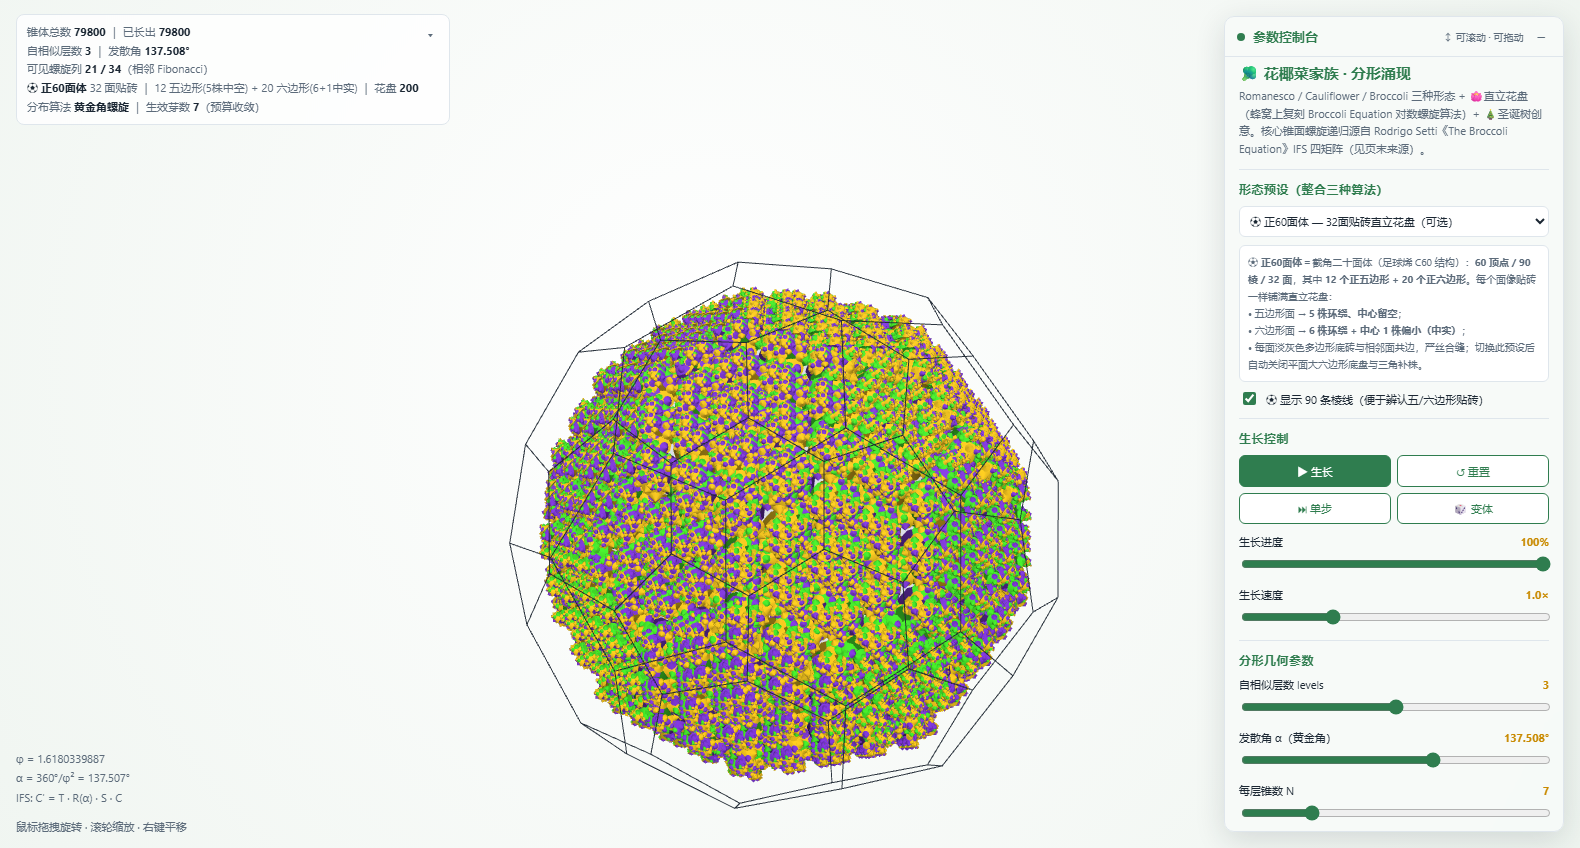
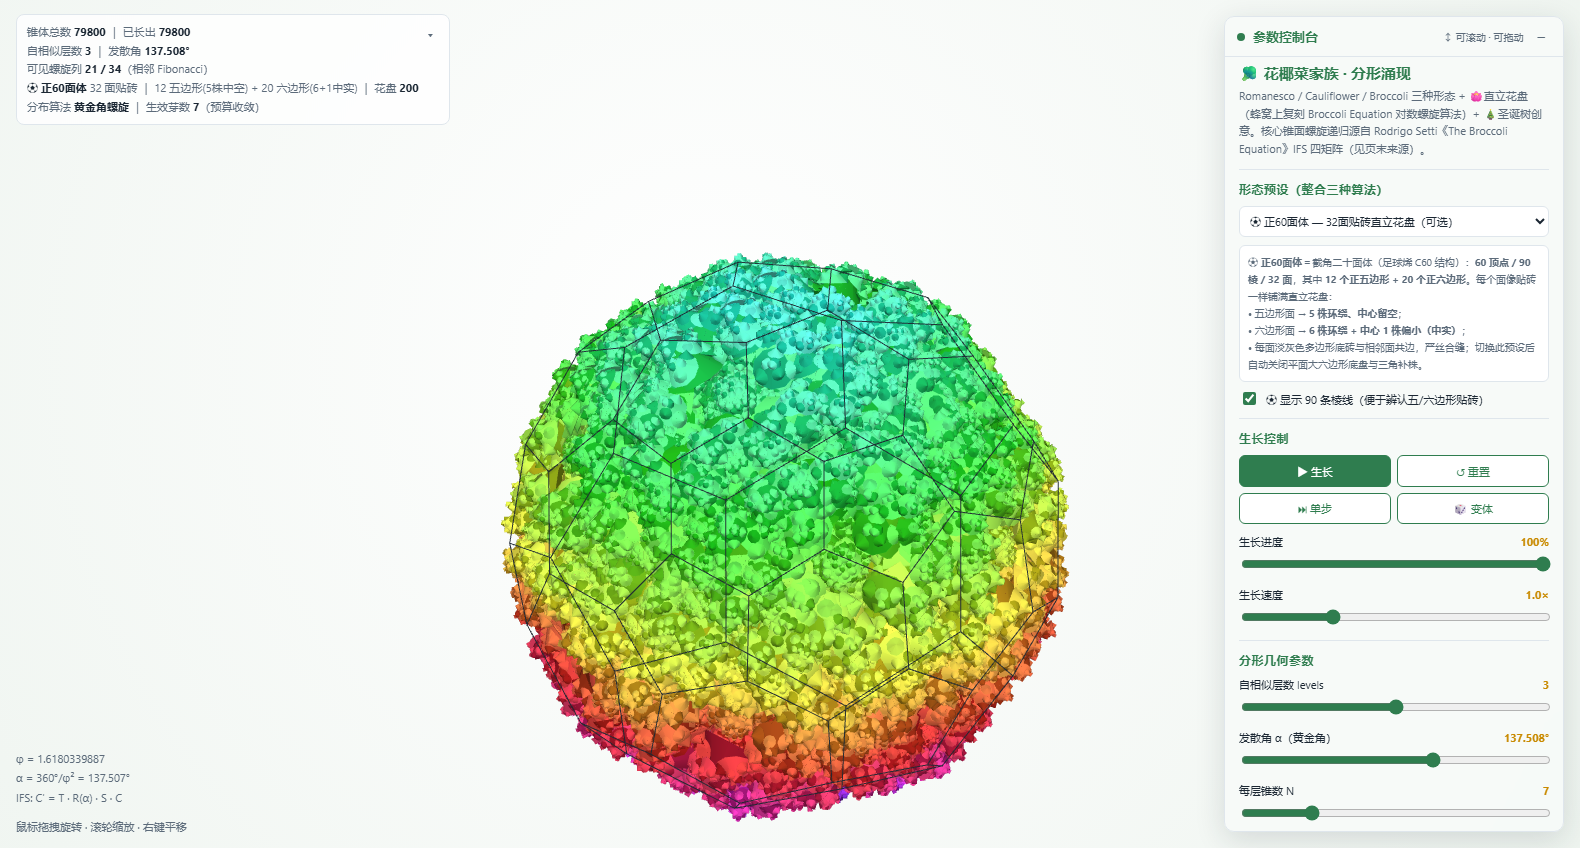
Fix truncated-icosahedron tiling: enlarge flower disks to fully cover pentagon/hexagon faces

Changed region(s): [[0.3101, 0.2759, 0.6823, 0.9811]]

diff --git a/_dev/_syntax2.js b/_dev/_syntax2.js
@@ -257,15 +257,23 @@ function buildPolyEdgeLines(faces,lift){
 /* 正60面体的每面贴砖布局：5边形=5株中空；6边形=6株+偏小中心株 */
 function buildPolyPlacements(faces,H0,r2l,edge){
   var unitR=H0*r2l*0.44;                 // 单株花盘底面半径（场景单位，与平面蜂窝一致）
-  var rHex=0.275*edge;                   // 六边形面外环花盘半径：略收 → 面砖边缘可见，5/6 分组清晰
-  var rPent=0.250*edge;                  // 五边形面外环花盘半径：略收 → 五边形轮廓清晰
-  var sHex=rHex/unitR,sPent=rPent/unitR,sMid=sHex*0.62;
+  /* 贴满整面的几何推导（r=花盘半径, ring=花盘中心到面心距离）：
+     正六边形 外接R=1.0e / 内切a=0.866e；正五边形 外接R=0.851e / 内切a=0.688e。
+     相切布局(ring=2r)只能在一点相切，边中点方向必然漏灰底 → 改为花盘适度重叠。
+     六边形: ring+r≥R(顶点), 0.866·ring+√(r²-(0.5·ring)²)≥a(边中点), rMid≥ring-r(填中心洞)。
+     五边形: ring+r≥0.851e, 0.809·ring+√(r²-(0.588·ring)²)≥0.688e；中心留小洞(5中空)。 */
+  var rHex=0.44*edge;                    // 六边形面花盘半径（覆盖到顶点/边）
+  var ringHex=0.74*edge;                 // 六边形 6 株环绕半径（相邻花盘重叠）
+  var rMid=0.36*edge;                    // 六边形中心株（偏小，填实中心洞）
+  var rPent=0.45*edge;                   // 五边形面花盘半径
+  var ringPent=0.60*edge;                // 五边形 5 株环绕半径
+  var sHex=rHex/unitR,sPent=rPent/unitR,sMid=rMid/unitR;
   var out=[];
   faces.forEach(function(f,fi){
     var M0=new THREE.Matrix4().makeBasis(f.u,f.normal,f.w);
     var isHex=f.type==='hex';
     var cnt=isHex?6:5;
-    var ring=isHex?2*rHex:(rPent/Math.sin(Math.PI/5));
+    var ring=isHex?ringHex:ringPent;
     var sc=isHex?sHex:sPent;
     for(var k=0;k<cnt;k++){
       var a=f.offset+2*Math.PI*k/cnt;

diff --git a/罗马花椰菜_分形生长参数台.html b/罗马花椰菜_分形生长参数台.html
@@ -595,15 +595,23 @@ function buildPolyEdgeLines(faces,lift){
 /* 正60面体的每面贴砖布局：5边形=5株中空；6边形=6株+偏小中心株 */
 function buildPolyPlacements(faces,H0,r2l,edge){
   var unitR=H0*r2l*0.44;                 // 单株花盘底面半径（场景单位，与平面蜂窝一致）
-  var rHex=0.275*edge;                   // 六边形面外环花盘半径：略收 → 面砖边缘可见，5/6 分组清晰
-  var rPent=0.250*edge;                  // 五边形面外环花盘半径：略收 → 五边形轮廓清晰
-  var sHex=rHex/unitR,sPent=rPent/unitR,sMid=sHex*0.62;
+  /* 贴满整面的几何推导（r=花盘半径, ring=花盘中心到面心距离）：
+     正六边形 外接R=1.0e / 内切a=0.866e；正五边形 外接R=0.851e / 内切a=0.688e。
+     相切布局(ring=2r)只能在一点相切，边中点方向必然漏灰底 → 改为花盘适度重叠。
+     六边形: ring+r≥R(顶点), 0.866·ring+√(r²-(0.5·ring)²)≥a(边中点), rMid≥ring-r(填中心洞)。
+     五边形: ring+r≥0.851e, 0.809·ring+√(r²-(0.588·ring)²)≥0.688e；中心留小洞(5中空)。 */
+  var rHex=0.44*edge;                    // 六边形面花盘半径（覆盖到顶点/边）
+  var ringHex=0.74*edge;                 // 六边形 6 株环绕半径（相邻花盘重叠）
+  var rMid=0.36*edge;                    // 六边形中心株（偏小，填实中心洞）
+  var rPent=0.45*edge;                   // 五边形面花盘半径
+  var ringPent=0.60*edge;                // 五边形 5 株环绕半径
+  var sHex=rHex/unitR,sPent=rPent/unitR,sMid=rMid/unitR;
   var out=[];
   faces.forEach(function(f,fi){
     var M0=new THREE.Matrix4().makeBasis(f.u,f.normal,f.w);
     var isHex=f.type==='hex';
     var cnt=isHex?6:5;
-    var ring=isHex?2*rHex:(rPent/Math.sin(Math.PI/5));
+    var ring=isHex?ringHex:ringPent;
     var sc=isHex?sHex:sPent;
     for(var k=0;k<cnt;k++){
       var a=f.offset+2*Math.PI*k/cnt;
